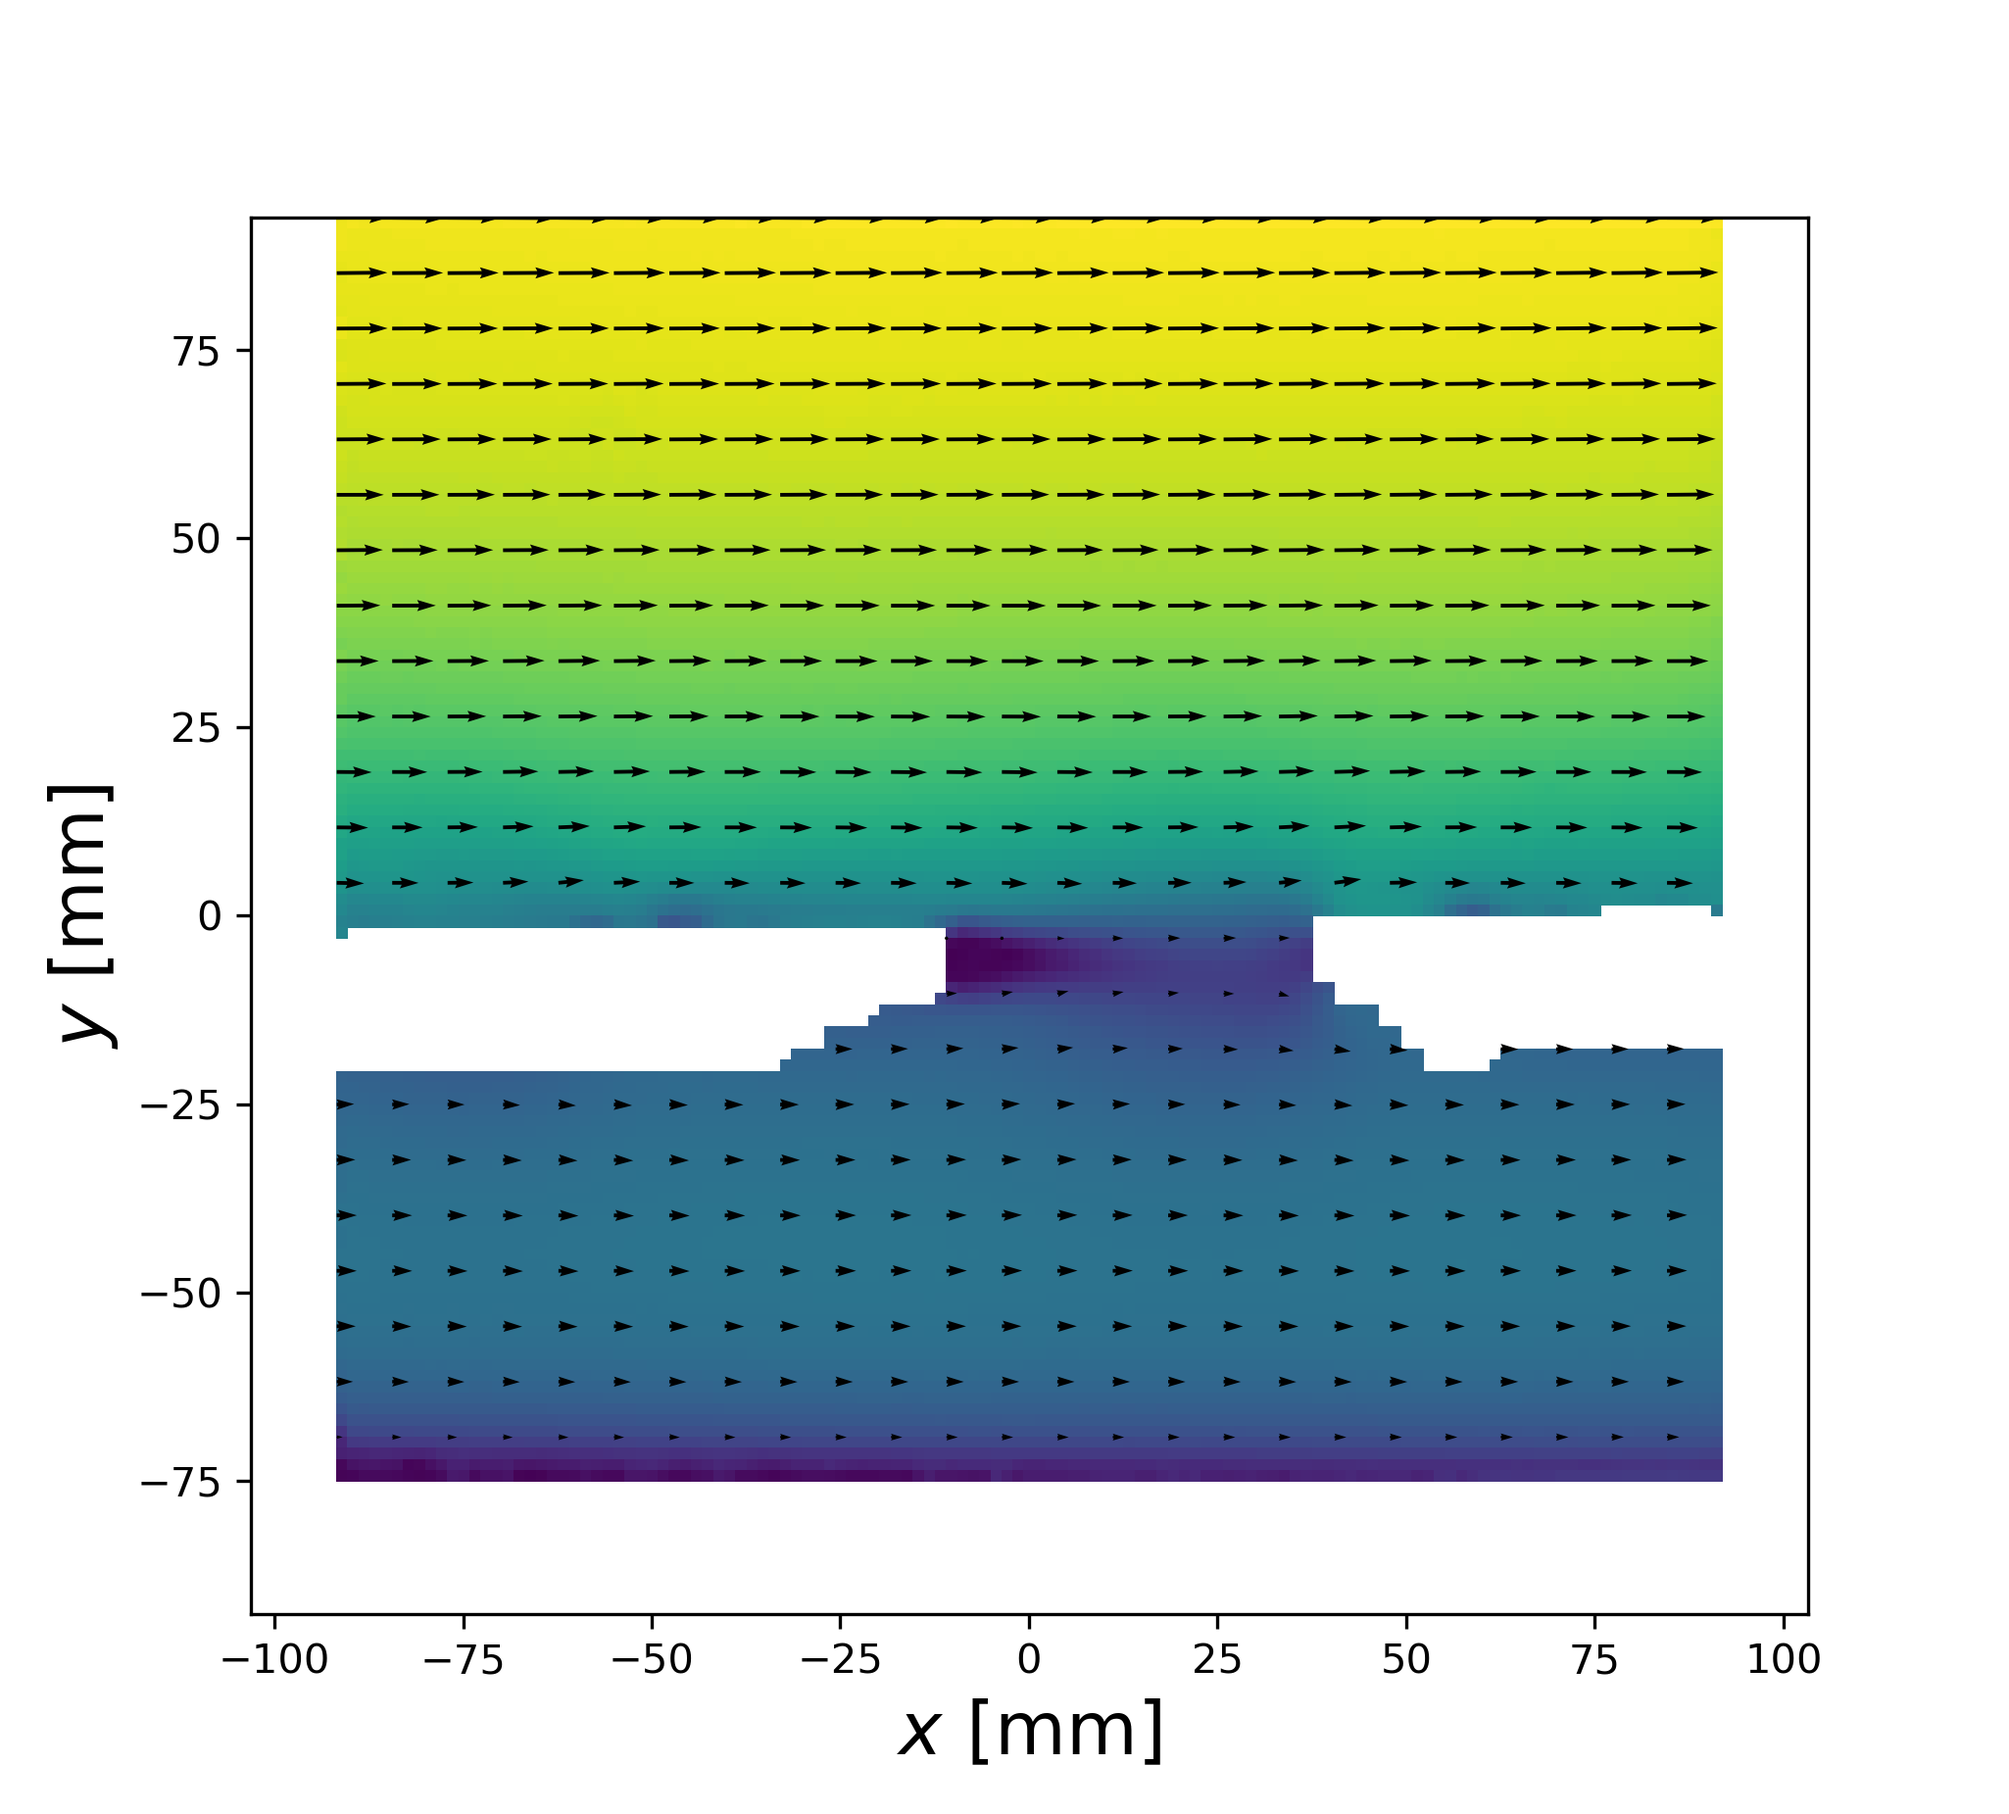
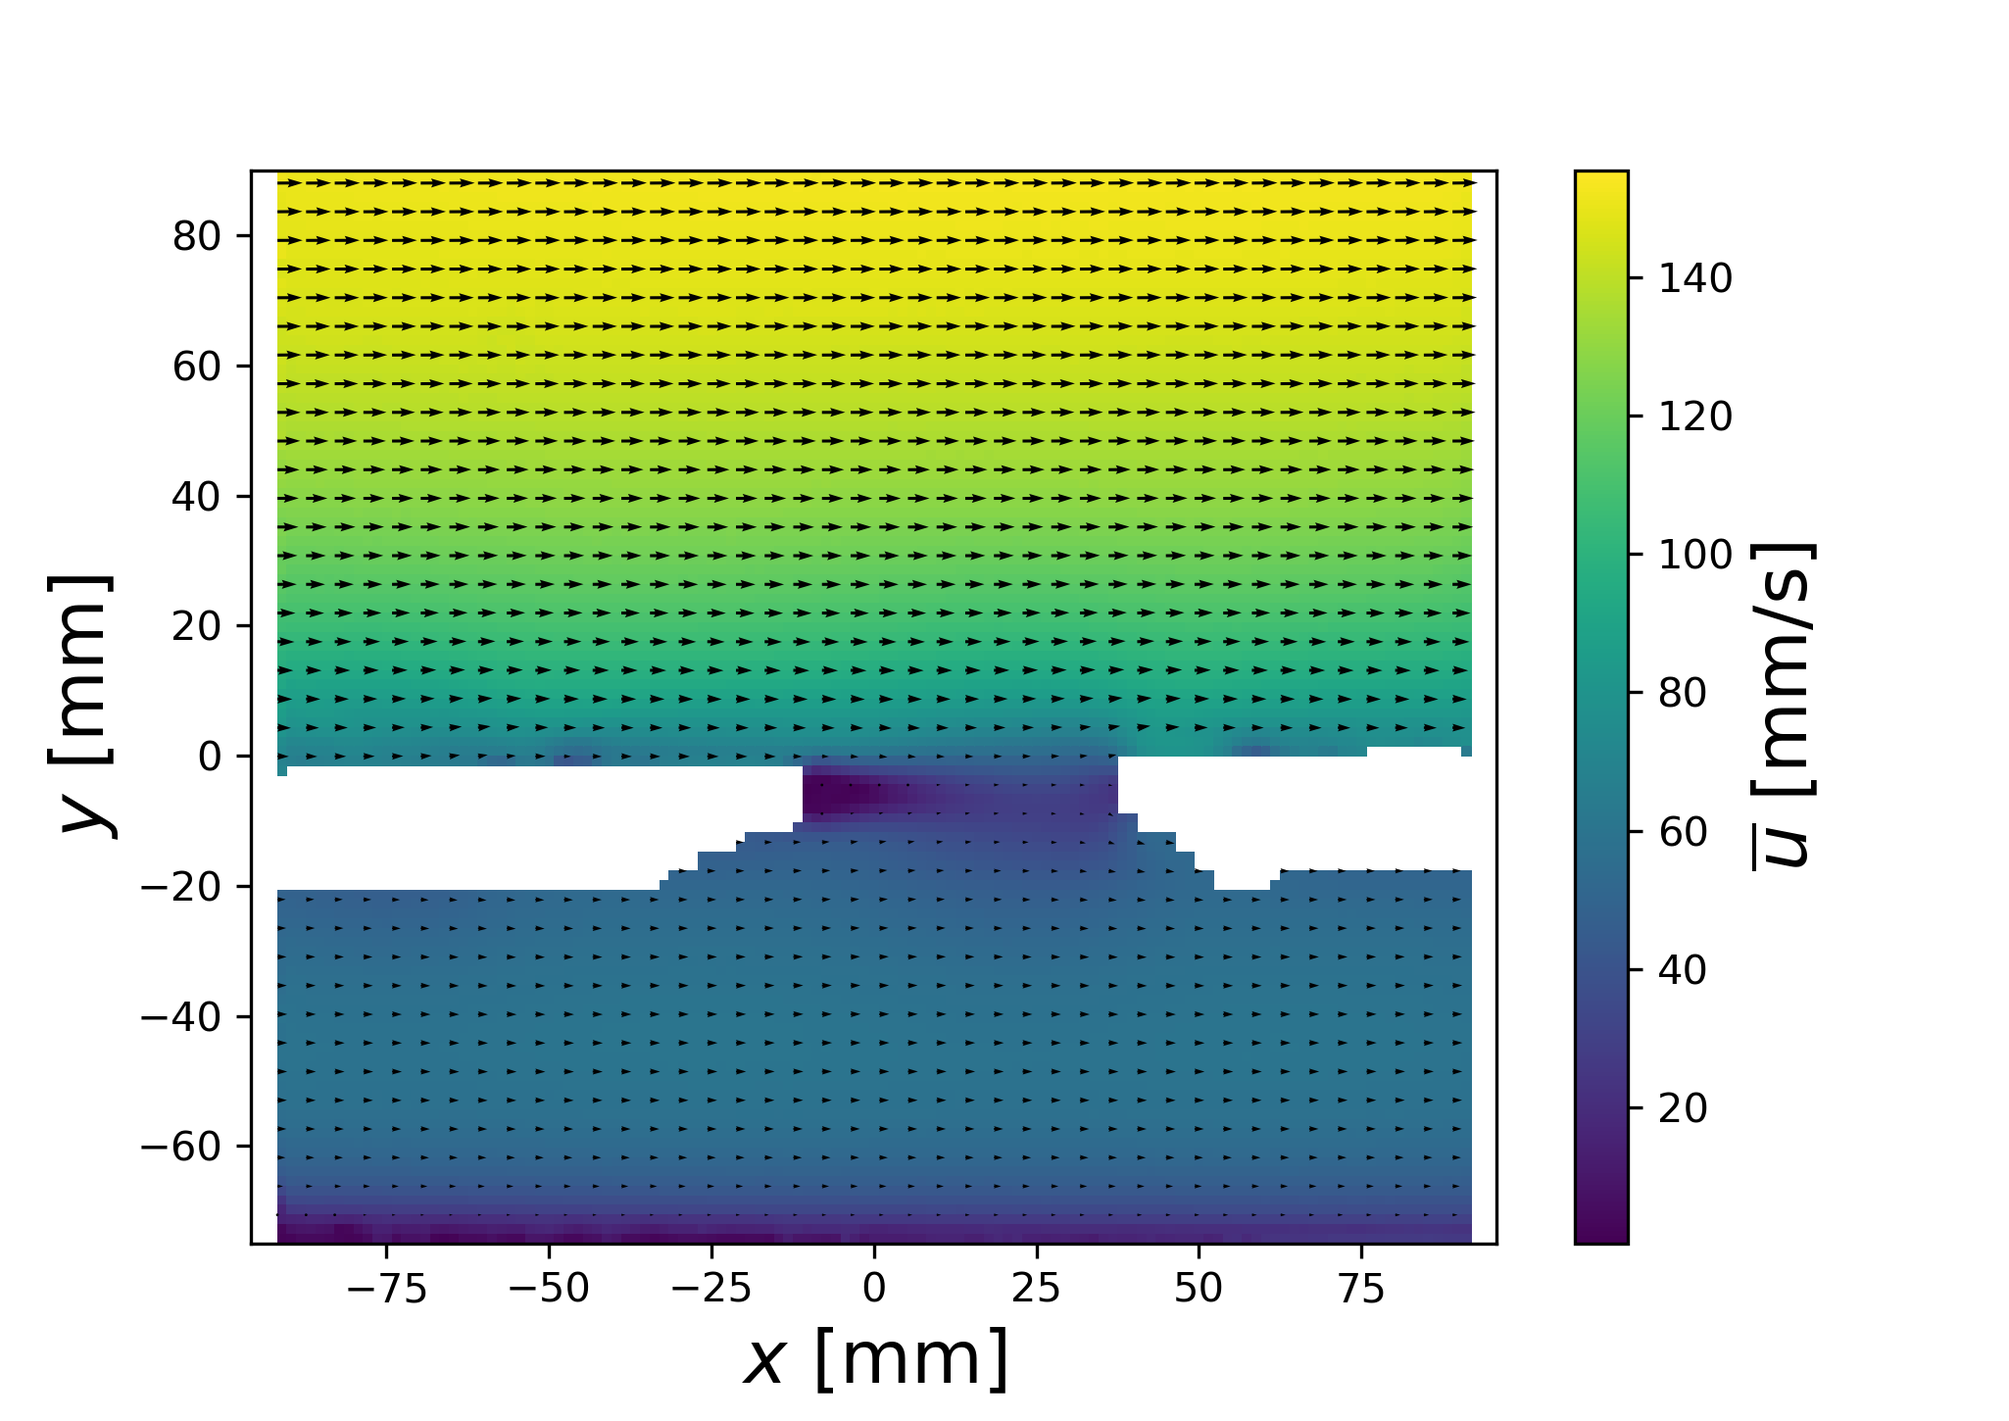
har laga fleire plott

diff --git a/interp_vector.py b/interp_vector.py
@@ -26,6 +26,7 @@ Vmx = np.array(fil['Vmx'])*1000
 u_bar = np.nanmean(Umx,0)
 v_bar = np.nanmean(Vmx,0)
 
+
 up = Umx - u_bar
 vp = Vmx - v_bar
 
@@ -49,6 +50,7 @@ x_reshape1 = x.reshape((J,I))      # x_reshape=(x_reshape1(t+1:J-b,m+1:I-n))
 y_reshape1 = y.reshape((J,I))      # y_reshape=(y_reshape1(t+1:J-b,m+1:I-n));
 u_reshape1 = u_bar.reshape((J,I))  # u_reshape=(u_reshape1(t+1:J-b,m+1:I-n));
 v_reshape1 = v_bar.reshape((J,I))  # v_reshape=(v_reshape1(t+1:J-b,m+1:I-n));
+v_mag = np.sqrt(u_reshape1 * u_reshape1 + v_reshape1 * v_reshape1)
 Umx_reshape = Umx.reshape((len(Umx),J,I))
 Vmx_reshape = Vmx.reshape((len(Vmx),J,I))
 t_3d,y_3d,x_3d = np.meshgrid(np.arange(3600.0),y_reshape1[:,0],x_reshape1[0,:],indexing='ij')
@@ -80,8 +82,6 @@ axes[0].quiver(x_reshape1[::k, ::k], y_reshape1[::k, ::k], u_reshape1[::k, ::k],
 
 axes[0].axis('equal')
 
-v_mag = np.sqrt(u_reshape1 * u_reshape1 + v_reshape1 * v_reshape1)
-
 q= axes[1].pcolor(x_reshape1,y_reshape1, v_mag)
 axes[1].set_xlabel(r'$x$ [mm]', fontsize=18)
 axes[1].set_ylabel(r'$y$ [mm]', fontsize=18)
@@ -96,22 +96,62 @@ fig.savefig('straumfelt.png')
 
 #%%
 myDPI = 300
-fig, axes = plt.subplots(figsize=(2050/myDPI,2050/myDPI),dpi=myDPI)
+fig, axes = plt.subplots(figsize=(2050/myDPI,1450/myDPI),dpi=myDPI)
 
-v_mag = np.sqrt(u_reshape1 * u_reshape1 + v_reshape1 * v_reshape1)
 
 p= axes.pcolor(x_reshape1,y_reshape1, v_mag)
 axes.set_xlabel(r'$x$ [mm]', fontsize=18)
 axes.set_ylabel(r'$y$ [mm]', fontsize=18)
-cb = fig.colorbar(p, ax=axes[0])
+cb = fig.colorbar(p, ax=axes)
 cb.set_label(r"$\overline{u}$ [mm/s]", fontsize=18)
 
-k = 5
+k = 3
 axes.quiver(x_reshape1[::k, ::k], y_reshape1[::k, ::k], u_reshape1[::k, ::k], v_reshape1[::k, ::k])
+axes.set_xlim()
 
 axes.axis('equal')
+axes.axis([-91, 91, -75, 90])
 
 fig.savefig('straumfelt_hires.png')
+
+#%%
+'''Nærbilete av kvervelen ved ribba '''
+myDPI = 300
+fig, axes = plt.subplots(figsize=(2050/myDPI,1050/myDPI),dpi=myDPI)
+
+p= axes.pcolor(x_reshape1,y_reshape1, v_mag)
+axes.set_xlabel(r'$x$ [mm]', fontsize=18)
+axes.set_ylabel(r'$y$ [mm]', fontsize=18)
+cb = fig.colorbar(p, ax=axes)
+cb.set_label(r"$\overline{u}$ [mm/s]", fontsize=18)
+
+k = 1
+axes.quiver(x_reshape1[::k, ::k], y_reshape1[::k, ::k], u_reshape1[::k, ::k], v_reshape1[::k, ::k],scale=100)
+axes.set_xlim()
+
+axes.axis('equal')
+axes.axis([-25, 15, -20, 5])
+
+fig.savefig('vortex.png')
+
+#%%
+
+fig = plt.figure(figsize=(2050/myDPI,1050/myDPI),dpi=myDPI)
+ax = fig.gca(projection='3d')
+
+# Plot the surface.
+surf = ax.plot_surface(x_reshape1, y_reshape1, v_mag)
+
+# Customize the z axis.
+# ax.set_zlim(-1.01, 1.01)
+# ax.zaxis.set_major_locator(LinearLocator(10))
+# ax.zaxis.set_major_formatter(FormatStrFormatter('%.02f'))
+
+# Add a color bar which maps values to colors.
+fig.colorbar(surf)
+
+# plt.show()
+
 
 #%%
 ''' Funksjon for å laga eit kontinuerleg vektorfelt '''
